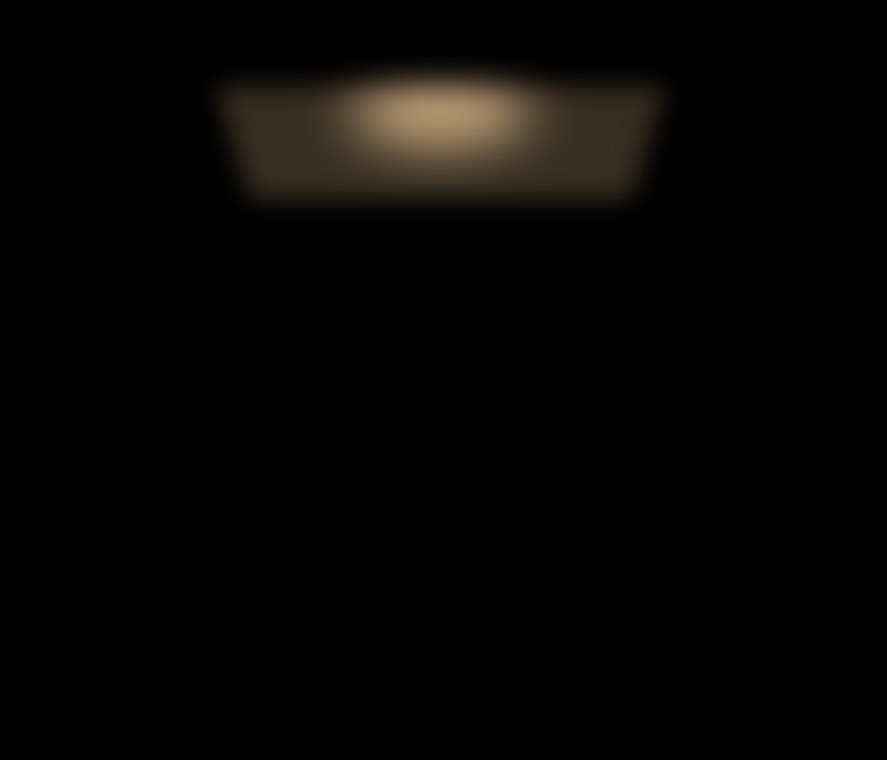
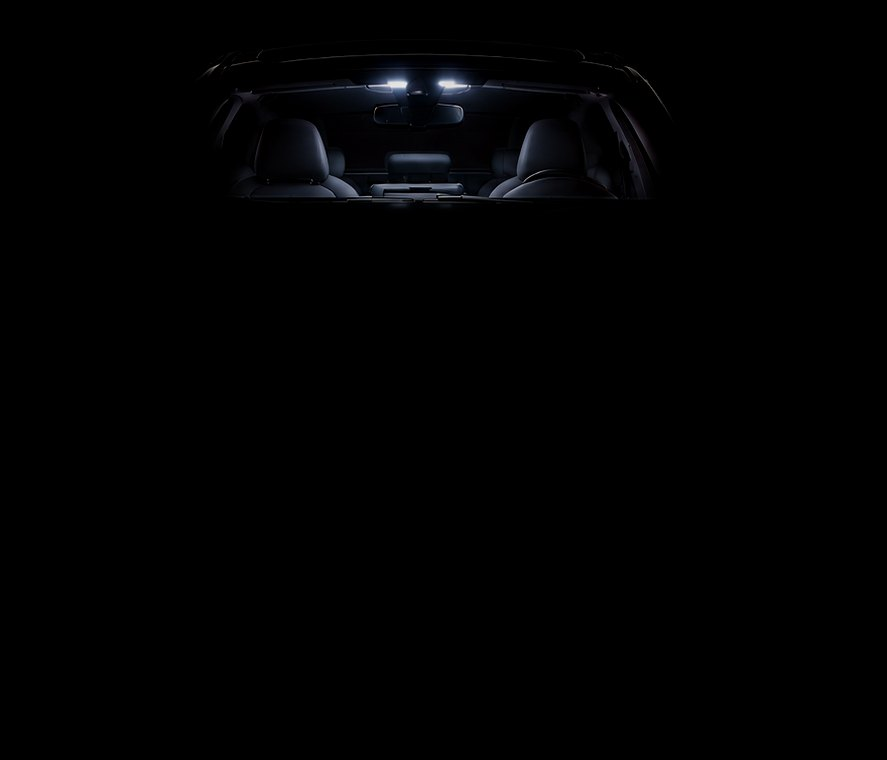
Démo : éclairage intérieur réaliste
Claude-Session: https://claude.ai/code/session_01Ne71Qi7SAzvyxrbnibtzm8

Changed region(s): [[0.2435, 0.0908, 0.761, 0.2724]]

diff --git a/index.html b/index.html
@@ -5,7 +5,7 @@
 <h1>Tes feux d'origine,<br>ton light show.</h1>
 <p class="lead">Pilote les feux de ta BMW série F depuis ton iPhone, compose des shows et fais-les danser sur ta musique. Sans modifier le codage.</p>
 <span class="cta big off">Bientôt sur l'App Store</span><div class="soon">iPhone · gratuit</div>
-<div class="demo"><div class="stage"><div class="car" role="img" aria-label="Voiture vue de face"><img class="base" src="assets/car/photo-front-off.jpg" alt=""><img class="lamp" data-id="f:drl-screenLeft" src="assets/car/photo-front-drl-screenLeft.jpg" alt="" loading="lazy"><img class="lamp" data-id="f:drl-screenRight" src="assets/car/photo-front-drl-screenRight.jpg" alt="" loading="lazy"><img class="lamp" data-id="f:low-screenLeft" src="assets/car/photo-front-low-screenLeft.jpg" alt="" loading="lazy"><img class="lamp" data-id="f:low-screenRight" src="assets/car/photo-front-low-screenRight.jpg" alt="" loading="lazy"><img class="lamp" data-id="f:high-screenLeft" src="assets/car/photo-front-high-screenLeft.jpg" alt="" loading="lazy"><img class="lamp" data-id="f:high-screenRight" src="assets/car/photo-front-high-screenRight.jpg" alt="" loading="lazy"><img class="lamp" data-id="f:fog-screenLeft" src="assets/car/photo-front-fog-screenLeft.jpg" alt="" loading="lazy"><img class="lamp" data-id="f:fog-screenRight" src="assets/car/photo-front-fog-screenRight.jpg" alt="" loading="lazy"><img class="lamp" data-id="f:indicator-screenLeft" src="assets/car/photo-front-indicator-screenLeft.jpg" alt="" loading="lazy"><img class="lamp" data-id="f:indicator-screenRight" src="assets/car/photo-front-indicator-screenRight.jpg" alt="" loading="lazy"><img class="lamp" data-id="f:interior" src="assets/car/photo-front-interior.jpg" alt="" loading="lazy"></div><div class="car" role="img" aria-label="Voiture vue de dos"><img class="base" src="assets/car/photo-rear-off.jpg" alt=""><img class="lamp" data-id="r:tail-screenLeft" src="assets/car/photo-rear-tail-screenLeft.jpg" alt="" loading="lazy"><img class="lamp" data-id="r:tail-screenRight" src="assets/car/photo-rear-tail-screenRight.jpg" alt="" loading="lazy"><img class="lamp" data-id="r:indicator-screenLeft" src="assets/car/photo-rear-indicator-screenLeft.jpg" alt="" loading="lazy"><img class="lamp" data-id="r:indicator-screenRight" src="assets/car/photo-rear-indicator-screenRight.jpg" alt="" loading="lazy"><img class="lamp" data-id="r:reverse-screenLeft" src="assets/car/photo-rear-reverse-screenLeft.jpg" alt="" loading="lazy"><img class="lamp" data-id="r:reverse-screenRight" src="assets/car/photo-rear-reverse-screenRight.jpg" alt="" loading="lazy"><img class="lamp" data-id="r:brake" src="assets/car/photo-rear-brake.jpg" alt="" loading="lazy"><img class="lamp" data-id="r:fog" src="assets/car/photo-rear-fog.jpg" alt="" loading="lazy"><img class="lamp" data-id="r:interior" src="assets/car/photo-rear-interior.jpg" alt="" loading="lazy"></div></div><div class="pads"><button class="pbtn" data-l="drl" style="--c:#ffd60a" aria-pressed="false"><span class="pp"><svg viewBox="0 0 32 32" width="26" height="26" fill="none" stroke="currentColor" stroke-width="2.4" stroke-linecap="round" stroke-linejoin="round"><path d="M19 6c5.5 0 9 4.5 9 10s-3.5 10-9 10z" fill="currentColor"/><path d="M14 8.5 9.5 6M14 13 8.5 12M14 19 8.5 20M14 23.5 9.5 26"/></svg></span><span class="pl">Feux de jour</span></button><button class="pbtn" data-l="low" style="--c:#0a84ff" aria-pressed="false"><span class="pp"><svg viewBox="0 0 32 32" width="26" height="26" fill="none" stroke="currentColor" stroke-width="2.4" stroke-linecap="round" stroke-linejoin="round"><path d="M19 6c5.5 0 9 4.5 9 10s-3.5 10-9 10z" fill="currentColor"/><path d="M14 9 5 12M14 14.5 5 17.5M14 20 5 23"/></svg></span><span class="pl">Croisement</span></button><button class="pbtn" data-l="high" style="--c:#0a84ff" aria-pressed="false"><span class="pp"><svg viewBox="0 0 32 32" width="26" height="26" fill="none" stroke="currentColor" stroke-width="2.4" stroke-linecap="round" stroke-linejoin="round"><path d="M19 6c5.5 0 9 4.5 9 10s-3.5 10-9 10z" fill="currentColor"/><path d="M14 10H4M14 16H4M14 22H4"/></svg></span><span class="pl">Route</span></button><button class="pbtn" data-l="fog" style="--c:#ffd60a" aria-pressed="false"><span class="pp"><svg viewBox="0 0 32 32" width="26" height="26" fill="none" stroke="currentColor" stroke-width="2.4" stroke-linecap="round" stroke-linejoin="round"><path d="M19 6c5.5 0 9 4.5 9 10s-3.5 10-9 10z" fill="currentColor"/><path d="M14 10 4 12M14 16 4 18M14 22 4 24"/><path d="M9.5 6q2.5 3 0 6t0 6 0 6 0 6" stroke-width="2"/></svg></span><span class="pl">Antibrouillard</span></button><button class="pbtn" data-l="indL" style="--c:#ff9f0a" aria-pressed="false"><span class="pp"><svg viewBox="0 0 32 32" width="26" height="26" fill="none" stroke="currentColor" stroke-width="2.4" stroke-linecap="round" stroke-linejoin="round"><path d="M4 16 14 6v6h14v8H14v6z" fill="currentColor"/></svg></span><span class="pl">Clignotant G</span></button><button class="pbtn" data-l="indR" style="--c:#ff9f0a" aria-pressed="false"><span class="pp"><span style="display:inline-flex;transform:scaleX(-1)"><svg viewBox="0 0 32 32" width="26" height="26" fill="none" stroke="currentColor" stroke-width="2.4" stroke-linecap="round" stroke-linejoin="round"><path d="M4 16 14 6v6h14v8H14v6z" fill="currentColor"/></svg></span></span><span class="pl">Clignotant D</span></button><button class="pbtn" data-l="hazard" style="--c:#ff9f0a" aria-pressed="false"><span class="pp"><svg viewBox="0 0 32 32" width="26" height="26" fill="none" stroke="currentColor" stroke-width="2.4" stroke-linecap="round" stroke-linejoin="round"><path d="M16 3.5 29 27H3z"/><path d="M16 12.5 22.2 23H9.8z"/></svg></span><span class="pl">Warning</span></button><button class="pbtn" data-l="tail" style="--c:#ff453a" aria-pressed="false"><span class="pp"><svg viewBox="0 0 32 32" width="26" height="26" fill="none" stroke="currentColor" stroke-width="2.4" stroke-linecap="round" stroke-linejoin="round"><rect x="4" y="10" width="24" height="12" rx="4"/><rect x="8" y="14" width="16" height="4" rx="2" fill="currentColor"/></svg></span><span class="pl">Feux arrière</span></button><button class="pbtn" data-l="brake" style="--c:#ff453a" aria-pressed="false"><span class="pp"><svg viewBox="0 0 32 32" width="26" height="26" fill="none" stroke="currentColor" stroke-width="2.4" stroke-linecap="round" stroke-linejoin="round"><rect x="4" y="11" width="24" height="12" rx="4" fill="currentColor"/><path d="M9 6.5 7.5 4M16 6V3M23 6.5 24.5 4"/></svg></span><span class="pl">Stop</span></button><button class="pbtn" data-l="reverse" style="--c:#aeaeb2" aria-pressed="false"><span class="pp"><svg viewBox="0 0 32 32" width="26" height="26" fill="none" stroke="currentColor" stroke-width="2.4" stroke-linecap="round" stroke-linejoin="round"><rect x="5" y="5" width="22" height="22" rx="6"/><path d="M12.5 22.5v-13h5a3.8 3.8 0 0 1 0 7.6h-5M17.5 17l3.5 5.5" stroke-width="2.6"/></svg></span><span class="pl">Recul</span></button><button class="pbtn" data-l="inside" style="--c:#ffd18a" aria-pressed="false"><span class="pp"><svg viewBox="0 0 32 32" width="26" height="26" fill="none" stroke="currentColor" stroke-width="2.4" stroke-linecap="round" stroke-linejoin="round"><path d="M5 9h22"/><path d="M9 9.5h14a7 7 0 0 1-14 0z" fill="currentColor"/><path d="M16 21v5M10 19.5l-2.5 4M22 19.5l2.5 4"/></svg></span><span class="pl">Intérieur</span></button><div class="showrow"><button class="pbtn showbtn" data-l="show" style="--c:#bf5af2" aria-pressed="false"><span class="pp"><svg viewBox="0 0 32 32" width="22" height="22" fill="none" stroke="currentColor" stroke-width="2.4" stroke-linecap="round" stroke-linejoin="round"><path d="M3 16h6l3-7 4.5 15 3.5-10 2 2h7"/></svg></span><span class="pl">Lancer un show</span></button></div></div><div class="hint">Touche une pastille : les feux s'allument comme dans l'app.</div></div></div></div>
+<div class="demo"><div class="stage"><div class="car" role="img" aria-label="Voiture vue de face"><img class="base" src="assets/car/photo-front-off.jpg" alt=""><img class="lamp" data-id="f:drl-screenLeft" src="assets/car/photo-front-drl-screenLeft.jpg" alt="" loading="lazy"><img class="lamp" data-id="f:drl-screenRight" src="assets/car/photo-front-drl-screenRight.jpg" alt="" loading="lazy"><img class="lamp" data-id="f:low-screenLeft" src="assets/car/photo-front-low-screenLeft.jpg" alt="" loading="lazy"><img class="lamp" data-id="f:low-screenRight" src="assets/car/photo-front-low-screenRight.jpg" alt="" loading="lazy"><img class="lamp" data-id="f:high-screenLeft" src="assets/car/photo-front-high-screenLeft.jpg" alt="" loading="lazy"><img class="lamp" data-id="f:high-screenRight" src="assets/car/photo-front-high-screenRight.jpg" alt="" loading="lazy"><img class="lamp" data-id="f:fog-screenLeft" src="assets/car/photo-front-fog-screenLeft.jpg" alt="" loading="lazy"><img class="lamp" data-id="f:fog-screenRight" src="assets/car/photo-front-fog-screenRight.jpg" alt="" loading="lazy"><img class="lamp" data-id="f:indicator-screenLeft" src="assets/car/photo-front-indicator-screenLeft.jpg" alt="" loading="lazy"><img class="lamp" data-id="f:indicator-screenRight" src="assets/car/photo-front-indicator-screenRight.jpg" alt="" loading="lazy"><img class="lamp" data-id="f:interior" src="assets/car/photo-front-interior.jpg" alt="" loading="lazy"></div><div class="car" role="img" aria-label="Voiture vue de dos"><img class="base" src="assets/car/photo-rear-off.jpg" alt=""><img class="lamp" data-id="r:tail-screenLeft" src="assets/car/photo-rear-tail-screenLeft.jpg" alt="" loading="lazy"><img class="lamp" data-id="r:tail-screenRight" src="assets/car/photo-rear-tail-screenRight.jpg" alt="" loading="lazy"><img class="lamp" data-id="r:indicator-screenLeft" src="assets/car/photo-rear-indicator-screenLeft.jpg" alt="" loading="lazy"><img class="lamp" data-id="r:indicator-screenRight" src="assets/car/photo-rear-indicator-screenRight.jpg" alt="" loading="lazy"><img class="lamp" data-id="r:reverse-screenLeft" src="assets/car/photo-rear-reverse-screenLeft.jpg" alt="" loading="lazy"><img class="lamp" data-id="r:reverse-screenRight" src="assets/car/photo-rear-reverse-screenRight.jpg" alt="" loading="lazy"><img class="lamp" data-id="r:brake" src="assets/car/photo-rear-brake.jpg" alt="" loading="lazy"><img class="lamp" data-id="r:fog" src="assets/car/photo-rear-fog.jpg" alt="" loading="lazy"><img class="lamp" data-id="r:interior" src="assets/car/photo-rear-interior.jpg" alt="" loading="lazy"></div></div><div class="pads"><button class="pbtn" data-l="drl" style="--c:#ffd60a" aria-pressed="false"><span class="pp"><svg viewBox="0 0 32 32" width="26" height="26" fill="none" stroke="currentColor" stroke-width="2.4" stroke-linecap="round" stroke-linejoin="round"><path d="M19 6c5.5 0 9 4.5 9 10s-3.5 10-9 10z" fill="currentColor"/><path d="M14 8.5 9.5 6M14 13 8.5 12M14 19 8.5 20M14 23.5 9.5 26"/></svg></span><span class="pl">Feux de jour</span></button><button class="pbtn" data-l="low" style="--c:#0a84ff" aria-pressed="false"><span class="pp"><svg viewBox="0 0 32 32" width="26" height="26" fill="none" stroke="currentColor" stroke-width="2.4" stroke-linecap="round" stroke-linejoin="round"><path d="M19 6c5.5 0 9 4.5 9 10s-3.5 10-9 10z" fill="currentColor"/><path d="M14 9 5 12M14 14.5 5 17.5M14 20 5 23"/></svg></span><span class="pl">Croisement</span></button><button class="pbtn" data-l="high" style="--c:#0a84ff" aria-pressed="false"><span class="pp"><svg viewBox="0 0 32 32" width="26" height="26" fill="none" stroke="currentColor" stroke-width="2.4" stroke-linecap="round" stroke-linejoin="round"><path d="M19 6c5.5 0 9 4.5 9 10s-3.5 10-9 10z" fill="currentColor"/><path d="M14 10H4M14 16H4M14 22H4"/></svg></span><span class="pl">Route</span></button><button class="pbtn" data-l="fog" style="--c:#ffd60a" aria-pressed="false"><span class="pp"><svg viewBox="0 0 32 32" width="26" height="26" fill="none" stroke="currentColor" stroke-width="2.4" stroke-linecap="round" stroke-linejoin="round"><path d="M19 6c5.5 0 9 4.5 9 10s-3.5 10-9 10z" fill="currentColor"/><path d="M14 10 4 12M14 16 4 18M14 22 4 24"/><path d="M9.5 6q2.5 3 0 6t0 6 0 6 0 6" stroke-width="2"/></svg></span><span class="pl">Antibrouillard</span></button><button class="pbtn" data-l="indL" style="--c:#ff9f0a" aria-pressed="false"><span class="pp"><svg viewBox="0 0 32 32" width="26" height="26" fill="none" stroke="currentColor" stroke-width="2.4" stroke-linecap="round" stroke-linejoin="round"><path d="M4 16 14 6v6h14v8H14v6z" fill="currentColor"/></svg></span><span class="pl">Clignotant G</span></button><button class="pbtn" data-l="indR" style="--c:#ff9f0a" aria-pressed="false"><span class="pp"><span style="display:inline-flex;transform:scaleX(-1)"><svg viewBox="0 0 32 32" width="26" height="26" fill="none" stroke="currentColor" stroke-width="2.4" stroke-linecap="round" stroke-linejoin="round"><path d="M4 16 14 6v6h14v8H14v6z" fill="currentColor"/></svg></span></span><span class="pl">Clignotant D</span></button><button class="pbtn" data-l="hazard" style="--c:#ff9f0a" aria-pressed="false"><span class="pp"><svg viewBox="0 0 32 32" width="26" height="26" fill="none" stroke="currentColor" stroke-width="2.4" stroke-linecap="round" stroke-linejoin="round"><path d="M16 3.5 29 27H3z"/><path d="M16 12.5 22.2 23H9.8z"/></svg></span><span class="pl">Warning</span></button><button class="pbtn" data-l="tail" style="--c:#ff453a" aria-pressed="false"><span class="pp"><svg viewBox="0 0 32 32" width="26" height="26" fill="none" stroke="currentColor" stroke-width="2.4" stroke-linecap="round" stroke-linejoin="round"><rect x="4" y="10" width="24" height="12" rx="4"/><rect x="8" y="14" width="16" height="4" rx="2" fill="currentColor"/></svg></span><span class="pl">Feux arrière</span></button><button class="pbtn" data-l="brake" style="--c:#ff453a" aria-pressed="false"><span class="pp"><svg viewBox="0 0 32 32" width="26" height="26" fill="none" stroke="currentColor" stroke-width="2.4" stroke-linecap="round" stroke-linejoin="round"><rect x="4" y="11" width="24" height="12" rx="4" fill="currentColor"/><path d="M9 6.5 7.5 4M16 6V3M23 6.5 24.5 4"/></svg></span><span class="pl">Stop</span></button><button class="pbtn" data-l="reverse" style="--c:#aeaeb2" aria-pressed="false"><span class="pp"><svg viewBox="0 0 32 32" width="26" height="26" fill="none" stroke="currentColor" stroke-width="2.4" stroke-linecap="round" stroke-linejoin="round"><rect x="5" y="5" width="22" height="22" rx="6"/><path d="M12.5 22.5v-13h5a3.8 3.8 0 0 1 0 7.6h-5M17.5 17l3.5 5.5" stroke-width="2.6"/></svg></span><span class="pl">Recul</span></button><button class="pbtn" data-l="inside" style="--c:#bfd9ff" aria-pressed="false"><span class="pp"><svg viewBox="0 0 32 32" width="26" height="26" fill="none" stroke="currentColor" stroke-width="2.4" stroke-linecap="round" stroke-linejoin="round"><path d="M5 9h22"/><path d="M9 9.5h14a7 7 0 0 1-14 0z" fill="currentColor"/><path d="M16 21v5M10 19.5l-2.5 4M22 19.5l2.5 4"/></svg></span><span class="pl">Intérieur</span></button><div class="showrow"><button class="pbtn showbtn" data-l="show" style="--c:#bf5af2" aria-pressed="false"><span class="pp"><svg viewBox="0 0 32 32" width="22" height="22" fill="none" stroke="currentColor" stroke-width="2.4" stroke-linecap="round" stroke-linejoin="round"><path d="M3 16h6l3-7 4.5 15 3.5-10 2 2h7"/></svg></span><span class="pl">Lancer un show</span></button></div></div><div class="hint">Touche une pastille : les feux s'allument comme dans l'app.</div></div></div></div>
 <section><div class="wrap"><h2>Tout ce qu'il faut pour briller.</h2><p class="sub">Une app pensée comme celles d'Apple : simple, sombre, et faite pour la nuit.</p><div class="features"><div class="feat"><div class="past" style="width:60px;height:60px;color:#0a84ff;background:radial-gradient(120% 120% at 30% 15%, #0a84ff66, #1c1c1e 75%);box-shadow:0 0 0 1.5px #0a84ffb3 inset,0 6px 22px -4px #0a84ff99"><div style="display:flex;filter:drop-shadow(0 0 6px #0a84ff)"><svg viewBox="0 0 32 32" width="30" height="30" fill="none" stroke="#0a84ff" stroke-width="2.4" stroke-linecap="round" stroke-linejoin="round"><path d="M19 6c5.5 0 9 4.5 9 10s-3.5 10-9 10z" fill="#0a84ff"/><path d="M14 9 5 12M14 14.5 5 17.5M14 20 5 23"/></svg></div></div><h3>Tes feux, en direct</h3><p>Croisement, route, clignotants, stop, recul, et même l'éclairage intérieur. Touche une pastille, le feu s'allume. Mode « Maintenir » à plusieurs doigts.</p></div><div class="feat"><div class="past" style="width:60px;height:60px;color:#ff375f;background:radial-gradient(120% 120% at 30% 15%, #ff375f66, #1c1c1e 75%);box-shadow:0 0 0 1.5px #ff375fb3 inset,0 6px 22px -4px #ff375f99"><div style="display:flex;filter:drop-shadow(0 0 6px #ff375f)"><svg viewBox="0 0 32 32" width="28" height="28" stroke="#ff375f" stroke-width="2.6" stroke-linecap="round"><path d="M4 13v6M9 9v14M14 5v22M19 10v12M24 7v18M28.5 13v6"/></svg></div></div><h3>Suit la musique</h3><p>L'iPhone écoute le rythme au micro et fait danser tes feux sur chaque temps fort. Rien n'est enregistré.</p></div><div class="feat"><div class="past" style="width:60px;height:60px;color:#ff9f0a;background:radial-gradient(120% 120% at 30% 15%, #ff9f0a66, #1c1c1e 75%);box-shadow:0 0 0 1.5px #ff9f0ab3 inset,0 6px 22px -4px #ff9f0a99"><div style="display:flex;filter:drop-shadow(0 0 6px #ff9f0a)"><svg viewBox="0 0 32 32" width="30" height="30" fill="none" stroke="#ff9f0a" stroke-width="2.4" stroke-linecap="round" stroke-linejoin="round"><path d="M3 16h6l3-7 4.5 15 3.5-10 2 2h7"/></svg></div></div><h3>13 shows prêts</h3><p>Pulsation, double flash, gyrophare, vague, bienvenue… Lance un show en un appui.</p></div><div class="feat"><div class="past" style="width:60px;height:60px;color:#bf5af2;background:radial-gradient(120% 120% at 30% 15%, #bf5af266, #1c1c1e 75%);box-shadow:0 0 0 1.5px #bf5af2b3 inset,0 6px 22px -4px #bf5af299"><div style="display:flex;filter:drop-shadow(0 0 6px #bf5af2)"><svg viewBox="0 0 32 32" width="28" height="28" fill="#bf5af2"><rect x="4" y="5" width="6" height="6" rx="1.5"/><rect x="13" y="5" width="6" height="6" rx="1.5" opacity=.35/><rect x="22" y="5" width="6" height="6" rx="1.5"/><rect x="4" y="14" width="6" height="6" rx="1.5" opacity=.35/><rect x="13" y="14" width="6" height="6" rx="1.5"/><rect x="22" y="14" width="6" height="6" rx="1.5" opacity=.35/><rect x="4" y="23" width="6" height="6" rx="1.5"/><rect x="13" y="23" width="6" height="6" rx="1.5" opacity=.35/><rect x="22" y="23" width="6" height="6" rx="1.5"/></svg></div></div><h3>Crée tes shows</h3><p>Une grille feux × pas pour composer tes séquences, ou enregistre en direct ce que tu joues.</p></div><div class="feat"><div class="past" style="width:60px;height:60px;color:#ffd60a;background:radial-gradient(120% 120% at 30% 15%, #ffd60a66, #1c1c1e 75%);box-shadow:0 0 0 1.5px #ffd60ab3 inset,0 6px 22px -4px #ffd60a99"><div style="display:flex;filter:drop-shadow(0 0 6px #ffd60a)"><svg viewBox="0 0 32 32" width="30" height="30" fill="none" stroke="#ffd60a" stroke-width="2.4" stroke-linecap="round" stroke-linejoin="round"><path d="M19 6c5.5 0 9 4.5 9 10s-3.5 10-9 10z" fill="#ffd60a"/><path d="M14 8.5 9.5 6M14 13 8.5 12M14 19 8.5 20M14 23.5 9.5 26"/></svg></div></div><h3>Ta voiture à l'écran</h3><p>Vue avant et arrière réalistes qui s'allument feu par feu, en même temps que la vraie.</p></div><div class="feat"><div class="past" style="width:60px;height:60px;color:#30d158;background:radial-gradient(120% 120% at 30% 15%, #30d15866, #1c1c1e 75%);box-shadow:0 0 0 1.5px #30d158b3 inset,0 6px 22px -4px #30d15899"><div style="display:flex;filter:drop-shadow(0 0 6px #30d158)"><svg viewBox="0 0 32 32" width="28" height="28" fill="none" stroke="#30d158" stroke-width="2.4" stroke-linecap="round" stroke-linejoin="round"><path d="M16 3 27 7v8c0 7-5 12-11 14C10 27 5 22 5 15V7z"/><path d="m11 16 4 4 7-8"/></svg></div></div><h3>Sans risque</h3><p>Aucun codage modifié. Commandes temporaires seulement : la voiture reprend la main à la fin d'un show.</p></div></div></div></section>
 <section class="band"><div class="wrap"><h2>Pensée pour la nuit.</h2><p class="sub">Les écrans de l'app.</p>
 <div class="shots"><img src="assets/img/04-eclairage.png" alt="Écran de l app" loading="lazy"><img src="assets/img/07-shows.png" alt="Écran de l app" loading="lazy"><img src="assets/img/08-lecteur-musique.png" alt="Écran de l app" loading="lazy"><img src="assets/img/04c-arriere-stop-recul.png" alt="Écran de l app" loading="lazy"></div></div></section>
